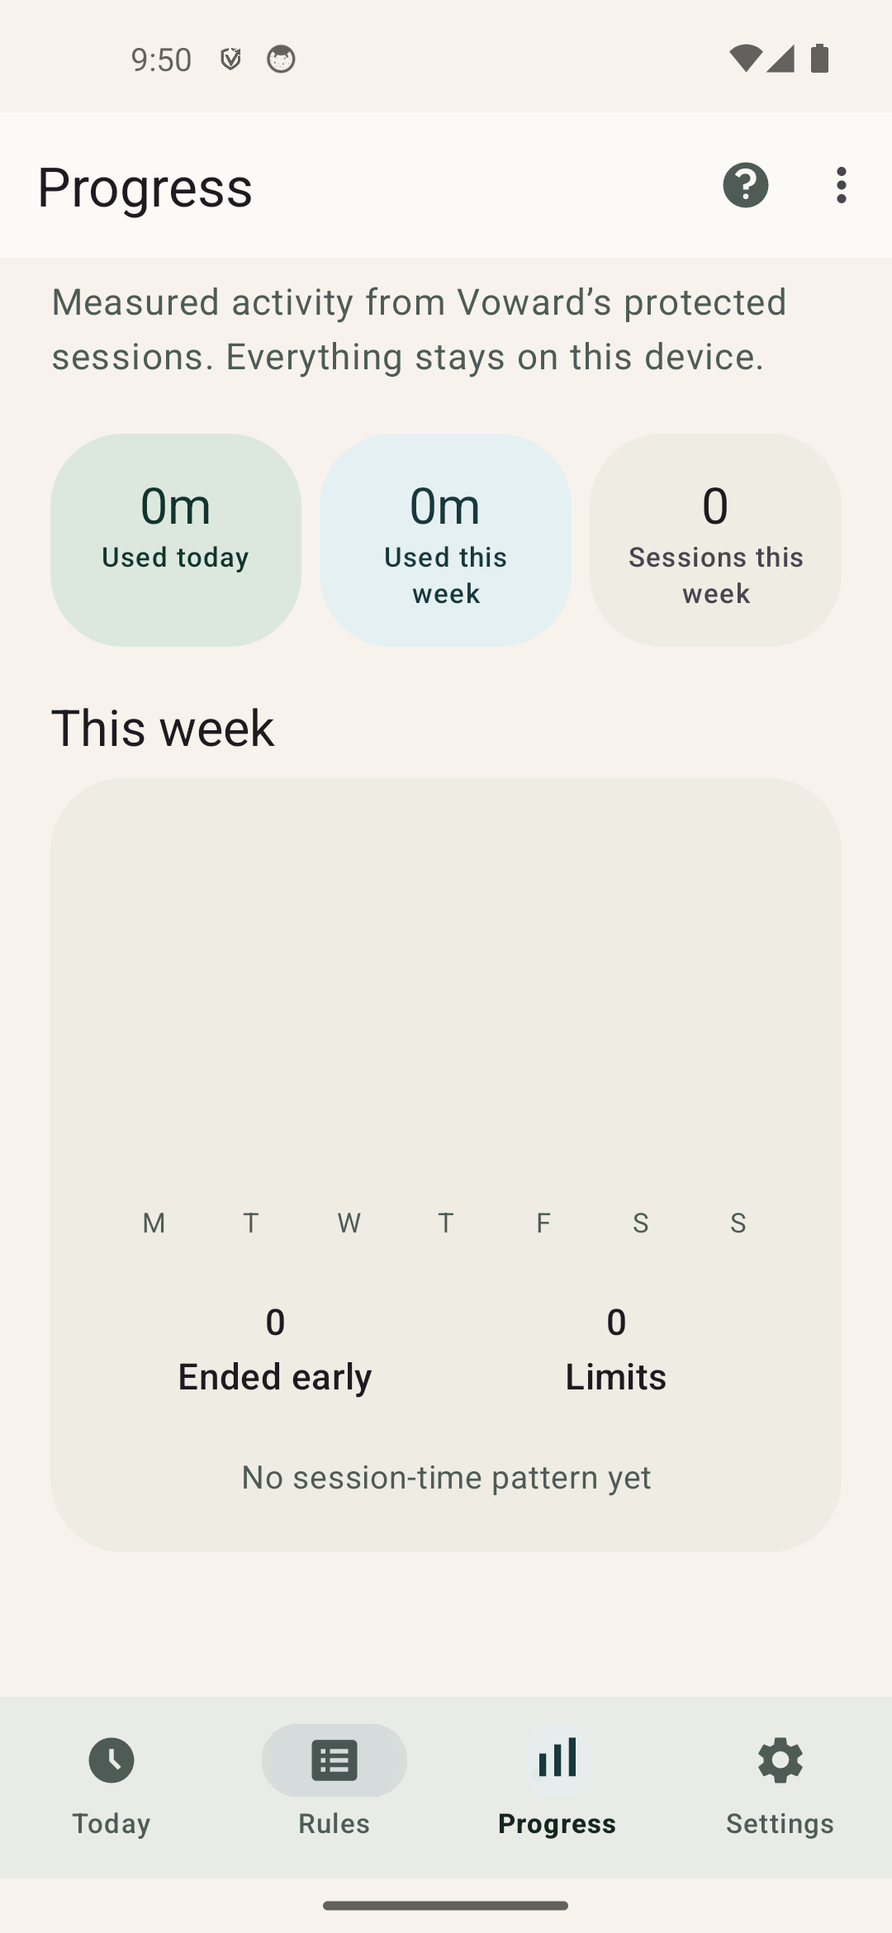
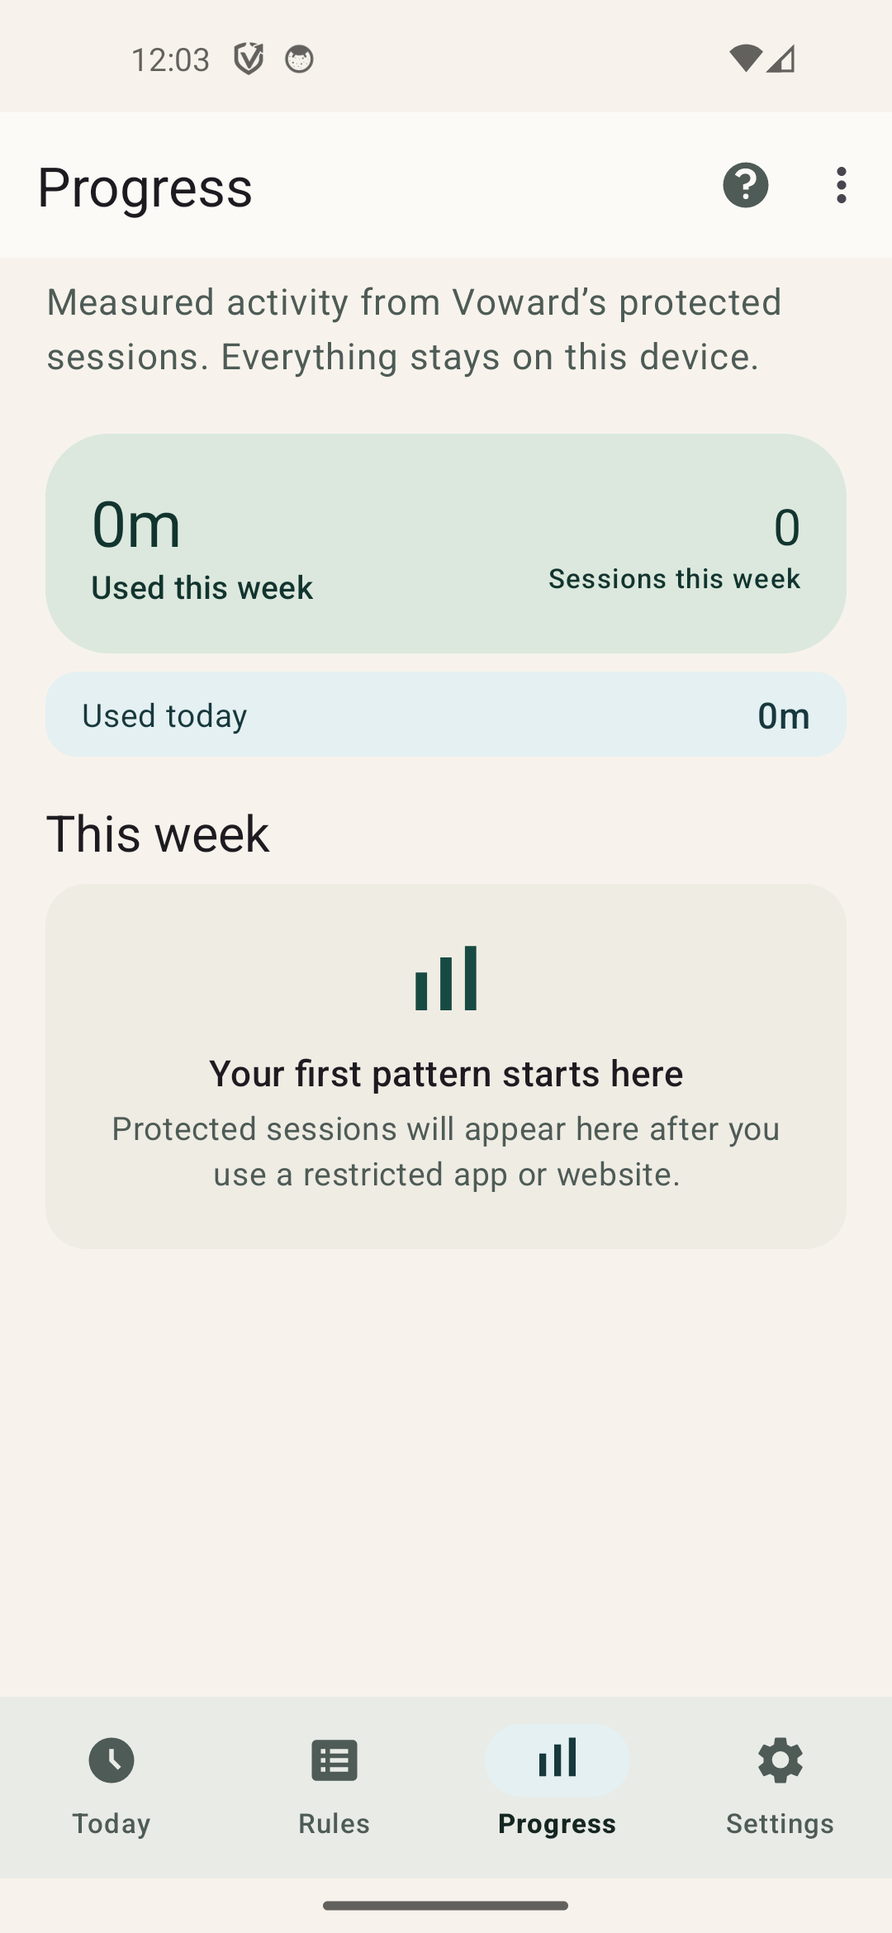
improved ui

diff --git a/app/src/main/java/com/example/voward/ModernMainActivity.java b/app/src/main/java/com/example/voward/ModernMainActivity.java
@@ -14,13 +14,15 @@ import android.os.SystemClock;
 import android.provider.Settings;
 import android.text.Editable;
 import android.text.TextWatcher;
+import android.transition.AutoTransition;
+import android.transition.TransitionManager;
 import android.view.Menu;
 import android.view.MenuItem;
 import android.view.View;
+import android.view.ViewGroup;
 import android.widget.Button;
 import android.widget.ArrayAdapter;
 import android.widget.EditText;
-import android.widget.Spinner;
 import android.widget.TextView;
 import android.widget.Toast;
 
@@ -37,6 +39,7 @@ import androidx.core.widget.NestedScrollView;
 import com.google.android.material.appbar.MaterialToolbar;
 import com.google.android.material.bottomnavigation.BottomNavigationView;
 import com.google.android.material.button.MaterialButton;
+import com.google.android.material.textfield.MaterialAutoCompleteTextView;
 import com.google.android.material.textfield.TextInputLayout;
 
 import org.json.JSONObject;
@@ -118,6 +121,9 @@ public class ModernMainActivity extends AppCompatActivity {
         BottomNavigationView navigation = findViewById(R.id.bottomNavigation);
         navigation.setOnItemSelectedListener(item -> {
             int id = item.getItemId();
+            TransitionManager.beginDelayedTransition(
+                    (ViewGroup) findViewById(R.id.mainContent),
+                    new AutoTransition().setDuration(180));
             findViewById(R.id.todayScreen).setVisibility(id == R.id.navigation_today ? View.VISIBLE : View.GONE);
             findViewById(R.id.rulesScreen).setVisibility(id == R.id.navigation_rules ? View.VISIBLE : View.GONE);
             findViewById(R.id.progressScreen).setVisibility(id == R.id.navigation_progress ? View.VISIBLE : View.GONE);
@@ -135,6 +141,8 @@ public class ModernMainActivity extends AppCompatActivity {
         findViewById(R.id.resumeSetupButton).setOnClickListener(v -> openSetup());
         findViewById(R.id.rerunSetupButton).setOnClickListener(v -> openSetup());
         findViewById(R.id.editIntentionButton).setOnClickListener(v -> openSettingsAtIntention());
+        findViewById(R.id.rulesAppsCard).setOnClickListener(this::onEditAppPackagesListClick);
+        findViewById(R.id.rulesWebsitesCard).setOnClickListener(this::onEditUrlListClick);
         findViewById(R.id.heroActionButton).setOnClickListener(v -> {
             if (preferences.getIsBlockerActive()) {
                 ((BottomNavigationView) findViewById(R.id.bottomNavigation))
@@ -156,8 +164,8 @@ public class ModernMainActivity extends AppCompatActivity {
     }
 
     private void setupDeactivationTimingSelectors() {
-        Spinner cooldown = findViewById(R.id.deactivationCooldownSpinner);
-        Spinner window = findViewById(R.id.deactivationWindowSpinner);
+        MaterialAutoCompleteTextView cooldown = findViewById(R.id.deactivationCooldownSpinner);
+        MaterialAutoCompleteTextView window = findViewById(R.id.deactivationWindowSpinner);
         String[] cooldownLabels = new String[COOLDOWN_MINUTES.length];
         for (int i = 0; i < COOLDOWN_MINUTES.length; i++) {
             cooldownLabels[i] = formatCooldownChoice(COOLDOWN_MINUTES[i]);
@@ -167,24 +175,24 @@ public class ModernMainActivity extends AppCompatActivity {
             windowLabels[i] = getString(R.string.window_hours_choice, WINDOW_HOURS[i]);
         }
         cooldown.setAdapter(new ArrayAdapter<>(this,
-                android.R.layout.simple_spinner_dropdown_item, cooldownLabels));
+                android.R.layout.simple_dropdown_item_1line, cooldownLabels));
         window.setAdapter(new ArrayAdapter<>(this,
-                android.R.layout.simple_spinner_dropdown_item, windowLabels));
-        cooldown.setSelection(indexOf(COOLDOWN_MINUTES,
-                preferences.getDeactivationCooldownMinutes()));
-        window.setSelection(indexOf(WINDOW_HOURS,
-                preferences.getDeactivationWindowHours()));
-        cooldown.setOnItemSelectedListener(new SimpleItemSelectedListener(position -> {
+                android.R.layout.simple_dropdown_item_1line, windowLabels));
+        cooldown.setText(cooldownLabels[indexOf(COOLDOWN_MINUTES,
+                preferences.getDeactivationCooldownMinutes())], false);
+        window.setText(windowLabels[indexOf(WINDOW_HOURS,
+                preferences.getDeactivationWindowHours())], false);
+        cooldown.setOnItemClickListener((parent, view, position, id) -> {
             if (!updatingFields && !preferences.getIsBlockerActive()) {
                 preferences.setDeactivationCooldownMinutes(COOLDOWN_MINUTES[position]);
                 refreshCooldownControls();
             }
-        }));
-        window.setOnItemSelectedListener(new SimpleItemSelectedListener(position -> {
+        });
+        window.setOnItemClickListener((parent, view, position, id) -> {
             if (!updatingFields && !preferences.getIsBlockerActive()) {
                 preferences.setDeactivationWindowHours(WINDOW_HOURS[position]);
             }
-        }));
+        });
     }
 
     private void openSetup() {
@@ -211,10 +219,11 @@ public class ModernMainActivity extends AppCompatActivity {
         ((EditText) findViewById(R.id.replacementThreeInput)).setText(preferences.getReplacementTask());
         ((SwitchCompat) findViewById(R.id.uninstallGuardSwitch)).setChecked(
                 preferences.isUninstallGuardEnabled());
-        ((Spinner) findViewById(R.id.deactivationCooldownSpinner)).setSelection(
-                indexOf(COOLDOWN_MINUTES, preferences.getDeactivationCooldownMinutes()));
-        ((Spinner) findViewById(R.id.deactivationWindowSpinner)).setSelection(
-                indexOf(WINDOW_HOURS, preferences.getDeactivationWindowHours()));
+        MaterialAutoCompleteTextView cooldown = findViewById(R.id.deactivationCooldownSpinner);
+        MaterialAutoCompleteTextView window = findViewById(R.id.deactivationWindowSpinner);
+        cooldown.setText(formatCooldownChoice(preferences.getDeactivationCooldownMinutes()), false);
+        window.setText(getString(R.string.window_hours_choice,
+                preferences.getDeactivationWindowHours()), false);
         updatingFields = false;
         refreshCooldownControls();
     }
@@ -381,13 +390,6 @@ public class ModernMainActivity extends AppCompatActivity {
                 ? getString(R.string.no_sites_protected)
                 : getResources().getQuantityString(R.plurals.protected_sites_summary, urlCount, urlCount));
         findViewById(R.id.rulesLockBanner).setVisibility(active ? View.VISIBLE : View.GONE);
-        MaterialButton appsButton = findViewById(R.id.button_go_to_edit_packages);
-        MaterialButton sitesButton = findViewById(R.id.button_go_to_edit_urls);
-        appsButton.setText(active ? R.string.view_locked_apps : R.string.manage_apps);
-        sitesButton.setText(active ? R.string.view_locked_websites : R.string.manage_websites);
-        appsButton.setIconResource(active ? R.drawable.ic_lock : 0);
-        sitesButton.setIconResource(active ? R.drawable.ic_lock : 0);
-
         int missing = 0;
         if (!firewallReady) missing++;
         if (ruleCount == 0) missing++;
@@ -474,6 +476,11 @@ public class ModernMainActivity extends AppCompatActivity {
         }
         long weekSeconds = 0;
         for (long value : usageSeconds) weekSeconds += value;
+
+        findViewById(R.id.progressEmptyState).setVisibility(
+                weekSeconds == 0 ? View.VISIBLE : View.GONE);
+        findViewById(R.id.progressDataCard).setVisibility(
+                weekSeconds == 0 ? View.GONE : View.VISIBLE);
 
         ((TextView) findViewById(R.id.progressTodayUsage)).setText(formatCompactDuration(todaySeconds));
         ((TextView) findViewById(R.id.progressWeekUsage)).setText(formatCompactDuration(weekSeconds));
@@ -941,16 +948,6 @@ public class ModernMainActivity extends AppCompatActivity {
     private String formatCooldownDuration(int minutes) {
         return minutes == 1 ? getString(R.string.one_minute)
                 : getString(R.string.hours_duration, minutes / 60);
-    }
-
-    private interface ItemSelection { void selected(int position); }
-    private static final class SimpleItemSelectedListener
-            implements android.widget.AdapterView.OnItemSelectedListener {
-        private final ItemSelection listener;
-        SimpleItemSelectedListener(ItemSelection listener) { this.listener = listener; }
-        @Override public void onItemSelected(android.widget.AdapterView<?> parent, View view,
-                                             int position, long id) { listener.selected(position); }
-        @Override public void onNothingSelected(android.widget.AdapterView<?> parent) { }
     }
 
     private static String formatCompactDuration(long seconds) {

diff --git a/app/src/main/java/com/example/voward/SetupActivity.java b/app/src/main/java/com/example/voward/SetupActivity.java
@@ -9,13 +9,14 @@ import android.os.Build;
 import android.os.Bundle;
 import android.provider.Settings;
 import android.view.View;
-import android.widget.AdapterView;
 import android.widget.ArrayAdapter;
 import android.widget.Button;
 import android.widget.EditText;
-import android.widget.Spinner;
 import android.widget.TextView;
 import android.widget.Toast;
+import android.transition.AutoTransition;
+import android.transition.TransitionManager;
+import android.view.ViewGroup;
 
 import androidx.activity.OnBackPressedCallback;
 import androidx.activity.result.ActivityResultLauncher;
@@ -25,6 +26,7 @@ import androidx.core.content.ContextCompat;
 import androidx.core.view.WindowCompat;
 
 import com.google.android.material.progressindicator.LinearProgressIndicator;
+import com.google.android.material.textfield.MaterialAutoCompleteTextView;
 import com.google.android.material.textfield.TextInputLayout;
 
 import java.util.Locale;
@@ -101,16 +103,17 @@ public class SetupActivity extends AppCompatActivity {
                 preferences.getDailyAllowanceSeconds() / 60));
         ((EditText) findViewById(R.id.setupSessionInput)).setText(String.valueOf(
                 preferences.getDefaultSessionSeconds() / 60));
-        ((Spinner) findViewById(R.id.setupDeactivationCooldownSpinner)).setSelection(
-                indexOf(COOLDOWN_MINUTES, preferences.getDeactivationCooldownMinutes()));
-        ((Spinner) findViewById(R.id.setupDeactivationWindowSpinner)).setSelection(
-                indexOf(WINDOW_HOURS, preferences.getDeactivationWindowHours()));
+        MaterialAutoCompleteTextView cooldown = findViewById(R.id.setupDeactivationCooldownSpinner);
+        MaterialAutoCompleteTextView window = findViewById(R.id.setupDeactivationWindowSpinner);
+        cooldown.setText(formatCooldownChoice(preferences.getDeactivationCooldownMinutes()), false);
+        window.setText(getString(R.string.window_hours_choice,
+                preferences.getDeactivationWindowHours()), false);
         refreshDeactivationTimingControls();
     }
 
     private void setupDeactivationTimingSelectors() {
-        Spinner cooldown = findViewById(R.id.setupDeactivationCooldownSpinner);
-        Spinner window = findViewById(R.id.setupDeactivationWindowSpinner);
+        MaterialAutoCompleteTextView cooldown = findViewById(R.id.setupDeactivationCooldownSpinner);
+        MaterialAutoCompleteTextView window = findViewById(R.id.setupDeactivationWindowSpinner);
         String[] cooldownLabels = new String[COOLDOWN_MINUTES.length];
         for (int i = 0; i < COOLDOWN_MINUTES.length; i++) {
             cooldownLabels[i] = formatCooldownChoice(COOLDOWN_MINUTES[i]);
@@ -120,28 +123,19 @@ public class SetupActivity extends AppCompatActivity {
             windowLabels[i] = getString(R.string.window_hours_choice, WINDOW_HOURS[i]);
         }
         cooldown.setAdapter(new ArrayAdapter<>(this,
-                android.R.layout.simple_spinner_dropdown_item, cooldownLabels));
+                android.R.layout.simple_dropdown_item_1line, cooldownLabels));
         window.setAdapter(new ArrayAdapter<>(this,
-                android.R.layout.simple_spinner_dropdown_item, windowLabels));
-        cooldown.setSelection(indexOf(COOLDOWN_MINUTES,
-                preferences.getDeactivationCooldownMinutes()));
-        window.setSelection(indexOf(WINDOW_HOURS,
-                preferences.getDeactivationWindowHours()));
-        cooldown.setOnItemSelectedListener(new AdapterView.OnItemSelectedListener() {
-            @Override public void onItemSelected(AdapterView<?> parent, View view,
-                                                 int position, long id) {
-                preferences.setDeactivationCooldownMinutes(COOLDOWN_MINUTES[position]);
-                refreshDeactivationTimingControls();
-            }
-            @Override public void onNothingSelected(AdapterView<?> parent) { }
+                android.R.layout.simple_dropdown_item_1line, windowLabels));
+        cooldown.setText(cooldownLabels[indexOf(COOLDOWN_MINUTES,
+                preferences.getDeactivationCooldownMinutes())], false);
+        window.setText(windowLabels[indexOf(WINDOW_HOURS,
+                preferences.getDeactivationWindowHours())], false);
+        cooldown.setOnItemClickListener((parent, view, position, id) -> {
+            preferences.setDeactivationCooldownMinutes(COOLDOWN_MINUTES[position]);
+            refreshDeactivationTimingControls();
         });
-        window.setOnItemSelectedListener(new AdapterView.OnItemSelectedListener() {
-            @Override public void onItemSelected(AdapterView<?> parent, View view,
-                                                 int position, long id) {
-                preferences.setDeactivationWindowHours(WINDOW_HOURS[position]);
-            }
-            @Override public void onNothingSelected(AdapterView<?> parent) { }
-        });
+        window.setOnItemClickListener((parent, view, position, id) ->
+                preferences.setDeactivationWindowHours(WINDOW_HOURS[position]));
     }
 
     private void refreshDeactivationTimingControls() {
@@ -169,6 +163,9 @@ public class SetupActivity extends AppCompatActivity {
 
     private void showStep(int nextStep) {
         step = Math.max(0, Math.min(STEP_COUNT - 1, nextStep));
+        TransitionManager.beginDelayedTransition(
+                (ViewGroup) findViewById(R.id.setupScroll),
+                new AutoTransition().setDuration(180));
         for (int i = 0; i < stepViews.length; i++) {
             findViewById(stepViews[i]).setVisibility(i == step ? View.VISIBLE : View.GONE);
         }

diff --git a/app/src/main/java/com/example/voward/DecisionGateActivity.java b/app/src/main/java/com/example/voward/DecisionGateActivity.java
@@ -5,7 +5,10 @@ import android.os.Bundle;
 import android.os.Handler;
 import android.os.Looper;
 import android.os.SystemClock;
+import android.transition.AutoTransition;
+import android.transition.TransitionManager;
 import android.view.View;
+import android.view.ViewGroup;
 import android.widget.Button;
 import android.widget.EditText;
 import android.widget.TextView;
@@ -89,9 +92,9 @@ public class DecisionGateActivity extends AppCompatActivity {
             ((TextView) findViewById(R.id.replacement_prompt)).setText(getString(
                     R.string.gate_replacement_with_goal, functionalGoal));
         }
-        ((Button) findViewById(R.id.replacementWalk)).setText(appPreferencesManager.getReplacementWalk());
-        ((Button) findViewById(R.id.replacementWater)).setText(appPreferencesManager.getReplacementWater());
-        ((Button) findViewById(R.id.replacementTask)).setText(appPreferencesManager.getReplacementTask());
+        ((TextView) findViewById(R.id.replacementWalk)).setText(appPreferencesManager.getReplacementWalk());
+        ((TextView) findViewById(R.id.replacementWater)).setText(appPreferencesManager.getReplacementWater());
+        ((TextView) findViewById(R.id.replacementTask)).setText(appPreferencesManager.getReplacementTask());
 
         if (savedInstanceState == null) {
             plannedMinutesInput.setText(String.valueOf(
@@ -105,14 +108,32 @@ public class DecisionGateActivity extends AppCompatActivity {
         }
 
         MaterialButtonToggleGroup durations = findViewById(R.id.durationChips);
-        findViewById(R.id.duration5).setOnClickListener(v -> plannedMinutesInput.setText(R.string.duration_value_5));
-        findViewById(R.id.duration10).setOnClickListener(v -> plannedMinutesInput.setText(R.string.duration_value_10));
-        findViewById(R.id.duration15).setOnClickListener(v -> plannedMinutesInput.setText(R.string.duration_value_15));
+        TextInputLayout customDuration = findViewById(R.id.planned_minutes_input_layout);
+        findViewById(R.id.duration5).setOnClickListener(v -> {
+            plannedMinutesInput.setText(R.string.duration_value_5);
+            customDuration.setVisibility(View.GONE);
+        });
+        findViewById(R.id.duration10).setOnClickListener(v -> {
+            plannedMinutesInput.setText(R.string.duration_value_10);
+            customDuration.setVisibility(View.GONE);
+        });
+        findViewById(R.id.duration15).setOnClickListener(v -> {
+            plannedMinutesInput.setText(R.string.duration_value_15);
+            customDuration.setVisibility(View.GONE);
+        });
+        findViewById(R.id.durationCustom).setOnClickListener(v -> {
+            customDuration.setVisibility(View.VISIBLE);
+            plannedMinutesInput.requestFocus();
+            plannedMinutesInput.setSelection(plannedMinutesInput.length());
+        });
         int initialMinutes = appPreferencesManager.getDefaultSessionSeconds() / 60;
         if (initialMinutes == 5) durations.check(R.id.duration5);
         else if (initialMinutes == 10) durations.check(R.id.duration10);
         else if (initialMinutes == 15) durations.check(R.id.duration15);
-        else durations.clearChecked();
+        else {
+            durations.clearChecked();
+            customDuration.setVisibility(View.VISIBLE);
+        }
 
         updateAwarenessMirror();
 
@@ -198,6 +219,9 @@ public class DecisionGateActivity extends AppCompatActivity {
     }
 
     private void renderStage() {
+        TransitionManager.beginDelayedTransition(
+                (ViewGroup) findViewById(R.id.rootLayout),
+                new AutoTransition().setDuration(180));
         if (strictBlocked) {
             renderStrictBlock();
             return;

diff --git a/app/src/test/java/com/example/voward/ActivityAndAdapterTest.java b/app/src/test/java/com/example/voward/ActivityAndAdapterTest.java
@@ -7,10 +7,10 @@ import android.os.Looper;
 import android.view.View;
 import android.widget.EditText;
 import android.widget.FrameLayout;
-import android.widget.Spinner;
 import android.widget.TextView;
 
 import com.google.android.material.checkbox.MaterialCheckBox;
+import com.google.android.material.textfield.MaterialAutoCompleteTextView;
 import com.google.android.material.textfield.TextInputLayout;
 
 import org.junit.Before;
@@ -240,17 +240,19 @@ public class ActivityAndAdapterTest {
                 Robolectric.buildActivity(SetupActivity.class).setup();
         assertEquals("20", ((EditText) setup.get().findViewById(
                 R.id.setupBudgetInput)).getText().toString());
-        Spinner setupCooldown = setup.get().findViewById(
+        MaterialAutoCompleteTextView setupCooldown = setup.get().findViewById(
                 R.id.setupDeactivationCooldownSpinner);
-        Spinner setupWindow = setup.get().findViewById(
+        MaterialAutoCompleteTextView setupWindow = setup.get().findViewById(
                 R.id.setupDeactivationWindowSpinner);
-        assertEquals(5, setupCooldown.getSelectedItemPosition());
-        assertEquals(2, setupWindow.getSelectedItemPosition());
-        setupCooldown.setSelection(0);
+        assertEquals(setupCooldown.getAdapter().getItem(5).toString(),
+                setupCooldown.getText().toString());
+        assertEquals(setupWindow.getAdapter().getItem(2).toString(),
+                setupWindow.getText().toString());
+        setupCooldown.getOnItemClickListener().onItemClick(null, null, 0, 0);
         Shadows.shadowOf(Looper.getMainLooper()).idle();
         assertEquals(0, preferences.getDeactivationCooldownMinutes());
         assertFalse(setupWindow.isEnabled());
-        setupCooldown.setSelection(1);
+        setupCooldown.getOnItemClickListener().onItemClick(null, null, 1, 1);
         Shadows.shadowOf(Looper.getMainLooper()).idle();
         assertEquals(1, preferences.getDeactivationCooldownMinutes());
         assertTrue(setupWindow.isEnabled());
@@ -279,6 +281,8 @@ public class ActivityAndAdapterTest {
         navigation.setSelectedItemId(R.id.navigation_progress);
         assertEquals(View.VISIBLE, main.get().findViewById(R.id.progressScreen).getVisibility());
         assertEquals(View.GONE, main.get().findViewById(R.id.todayScreen).getVisibility());
+        assertEquals(View.VISIBLE, main.get().findViewById(R.id.progressEmptyState).getVisibility());
+        assertEquals(View.GONE, main.get().findViewById(R.id.progressDataCard).getVisibility());
         main.destroy();
 
         ActivityController<DecisionGateActivity> gate =
@@ -289,6 +293,14 @@ public class ActivityAndAdapterTest {
                 R.id.replacementWater)).getText().toString());
         assertEquals("Write one sentence", ((TextView) gate.get().findViewById(
                 R.id.replacementTask)).getText().toString());
+        assertEquals(View.GONE, gate.get().findViewById(
+                R.id.planned_minutes_input_layout).getVisibility());
+        gate.get().findViewById(R.id.durationCustom).performClick();
+        assertEquals(View.VISIBLE, gate.get().findViewById(
+                R.id.planned_minutes_input_layout).getVisibility());
+        gate.get().findViewById(R.id.duration5).performClick();
+        assertEquals(View.GONE, gate.get().findViewById(
+                R.id.planned_minutes_input_layout).getVisibility());
         gate.get().findViewById(R.id.replacementWater).performClick();
         assertEquals(1, preferences.getDailyAlternativeChoiceCounts()[1]);
         gate.destroy();

diff --git a/README.md b/README.md
@@ -8,9 +8,9 @@ Voward is not medical treatment, a diagnostic device, or a validated measure of 
 
 <p align="center">
   <img src="docs/screenshots/voward-today.png" alt="Voward Today dashboard showing active protection and the remaining daily allowance" width="23%" />
-  <img src="docs/screenshots/voward-rules.png" alt="Voward Rules screen showing protected apps and websites" width="23%" />
-  <img src="docs/screenshots/voward-progress.png" alt="Voward Progress screen showing measured weekly protected use" width="23%" />
-  <img src="docs/screenshots/voward-gate.png" alt="Voward decision gate asking for an intention and session length before opening YouTube" width="23%" />
+  <img src="docs/screenshots/voward-rules.png" alt="Voward Rules screen showing additive editing while protection is active" width="23%" />
+  <img src="docs/screenshots/voward-progress.png" alt="Voward Progress screen showing weekly metrics and its empty state" width="23%" />
+  <img src="docs/screenshots/voward-gate.png" alt="Voward decision gate asking for an intention and planned session length" width="23%" />
 </p>
 
 <p align="center"><sub>Daily status &middot; Protected rules &middot; Local progress &middot; Intentional-use decision gate</sub></p>
